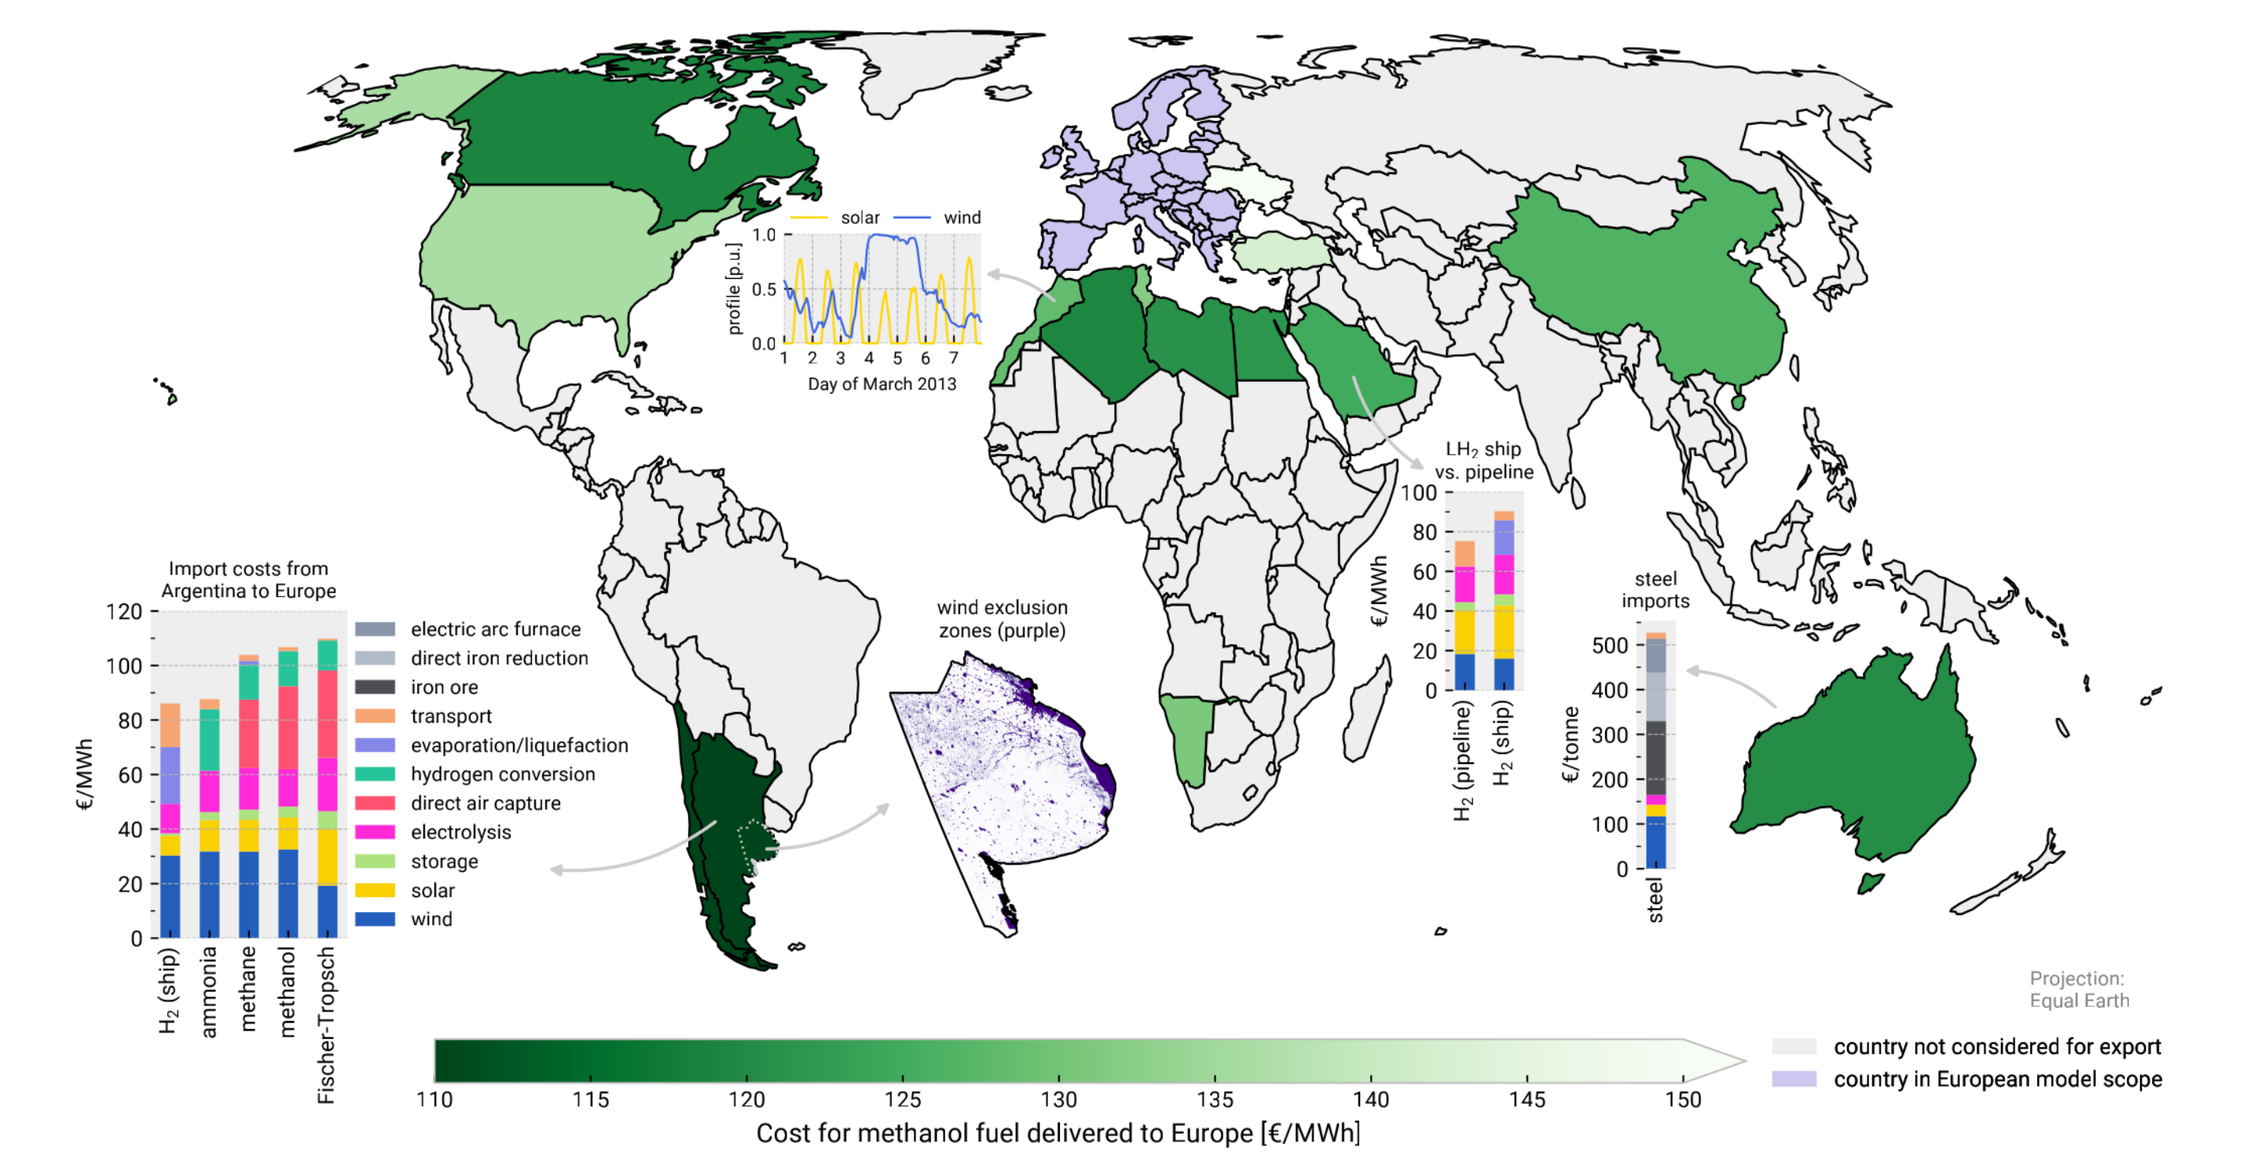
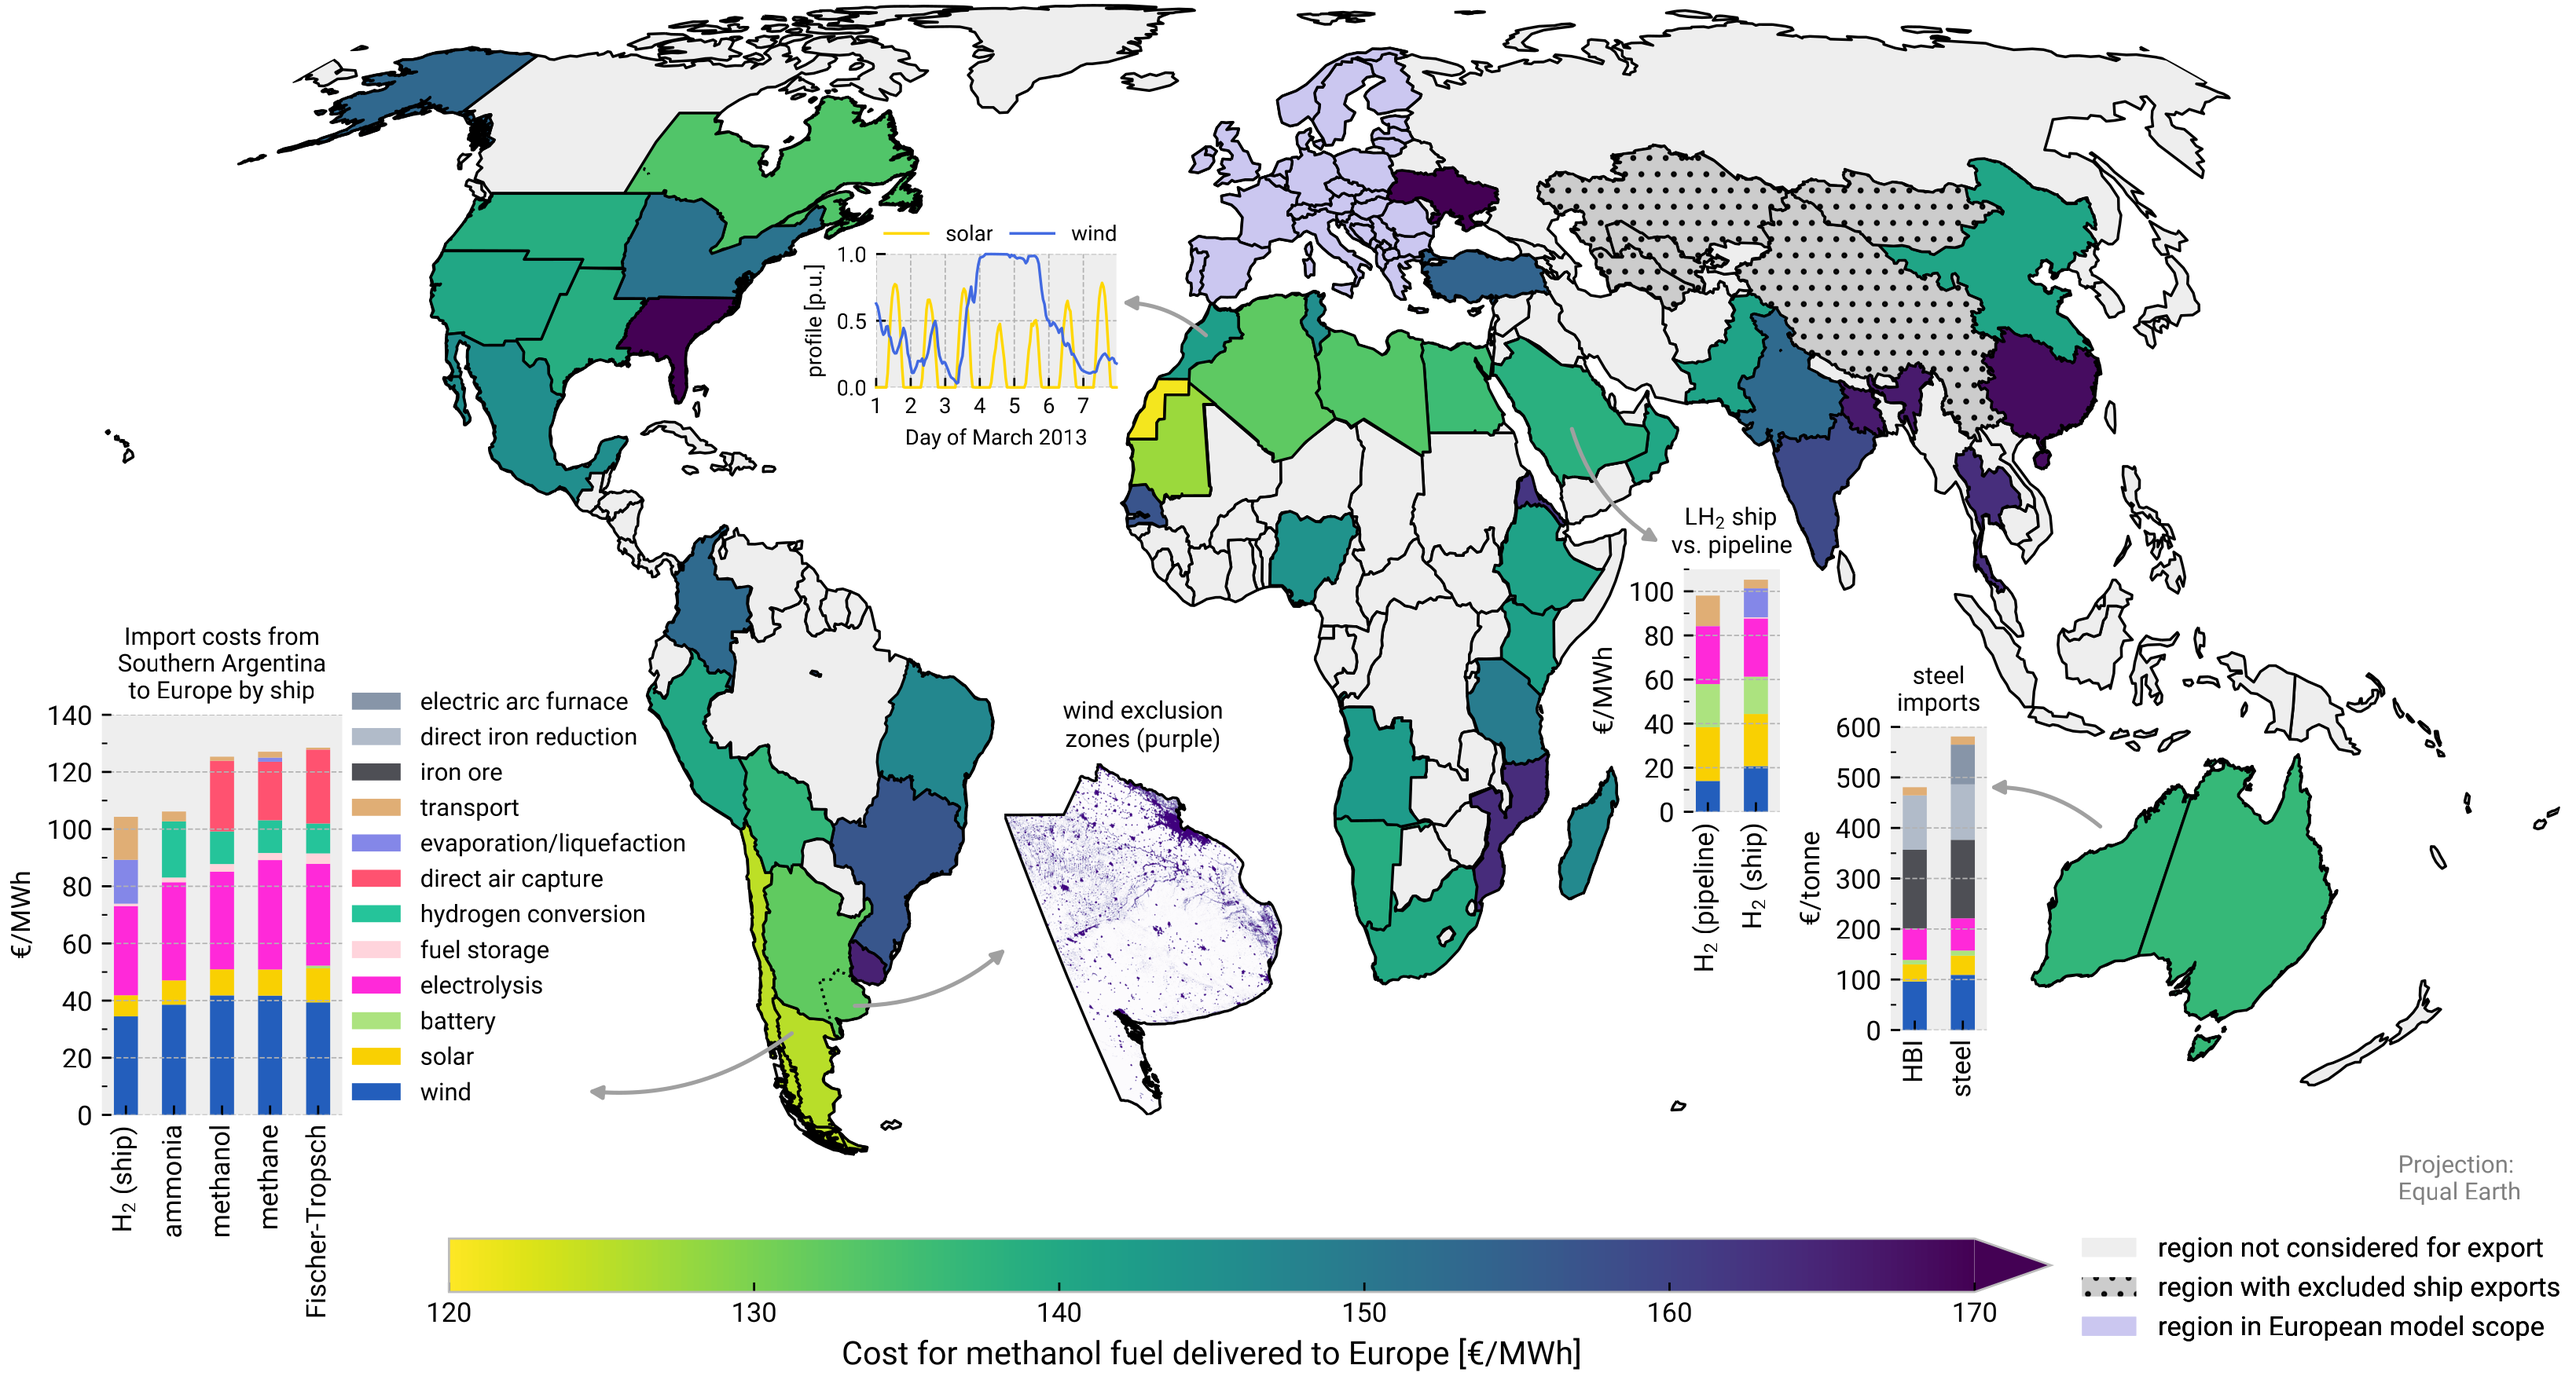
add NatComm, talks and update import figure

diff --git a/talks.md b/talks.md
@@ -6,6 +6,12 @@ permalink: /talks/
 
 ### 2025
 
+2025, June 12. [Integrating electrolysers in Europe’s net-zero economy power system](https://tubcloud.tu-berlin.de/s/YAqrq2BxTGsHYas/download/20250612-eusew.pdf). Held at the European Commission's [European Sustainable Energy Week](https://sustainable-energy-week.ec.europa.eu/index_en) in Brussels.
+
+2025, June 5. [H2 and CO2 network strategies for the European energy system](https://tubcloud.tu-berlin.de/s/px5eNrzebLXrjA2/download/20250605-planeterr.pdf). Held online for colleagues at [MINES Paris PSL](https://www.minesparis.psl.eu/en/home/).
+
+2025, June 5. [H2 and CO2 network strategies for the European energy system](https://tubcloud.tu-berlin.de/s/JMyCjg8gRF9z5zW/download/20250605-agora.pdf). Held at the offices of [Agora Energiewende](https://www.agora-energiewende.de) in Berlin.
+
 2025, May 20. [Energy infrastructure planning for Europe’s hydrogen, import and carbon management strategies](https://tubcloud.tu-berlin.de/s/iZ74dXQa5fpgoWH/download/20250520-ewi-cologne.pdf). Held at a research colloquium at [EWI](https://www.ewi.uni-koeln.de/de/) in Cologne.
 
 2025, May 14. [Resilient Energy Infrastructure: Carbon Management, Weather Years and Price Formation with 100% VRE](https://tubcloud.tu-berlin.de/s/9wSdJWDaPbTLp6y/download/20250514-iea-wind-oslo.pdf). Held during the [IEA Wind Task 25](https://iea-wind.org/task25/) meeting in Oslo.

diff --git a/research.md b/research.md
@@ -35,8 +35,9 @@ net-zero.
 
 ![Import Strategies](/assets/img/paper-imports.png)
 
-- Neumann, F., Hampp, J., & Brown, T. (2024). *Energy Imports and Infrastructure
-  in a Carbon-Neutral European Energy System.* [arXiv:2404.03927](http://arxiv.org/abs/2404.03927)
+- Neumann, F., Hampp, J., & Brown, T. (2025). *Green energy and steel imports
+  reduce Europe's net-zero infrastructure needs.* **Nature Communications**
+  [doi:10.1038/s41467-025-60652-1](http://doi.org/10.1038/s41467-025-60652-1)
 
 ### Carbon Management Strategies & Biomass
 
